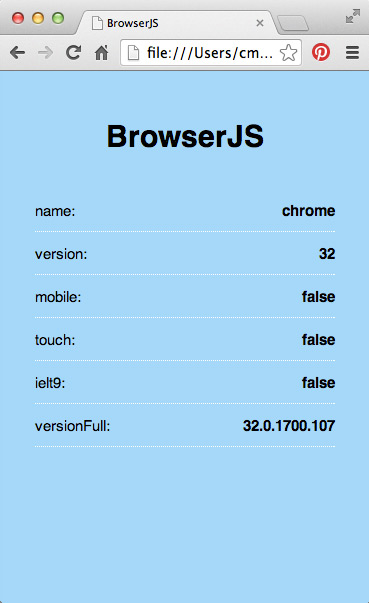
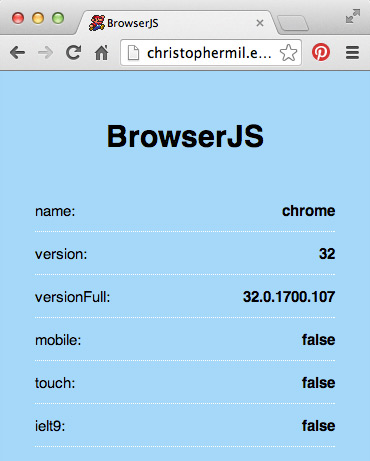
fix for firefox and updated screenshots

diff --git a/js/browser.js b/js/browser.js
@@ -116,7 +116,7 @@ var Browser = function( self ) {
 		case 'firefox':
 			if ( this.ua.indexOf( 'firefox/' ) != -1 ) {
 				this.version = this.ua.split( 'firefox/' )[1].split( '.' )[0];
-				this.fullVersion = this.ua.split( 'firefox/' )[1];
+				this.versionFull = this.ua.split( 'firefox/' )[1];
 			}
 			break;
 		case 'msie':
